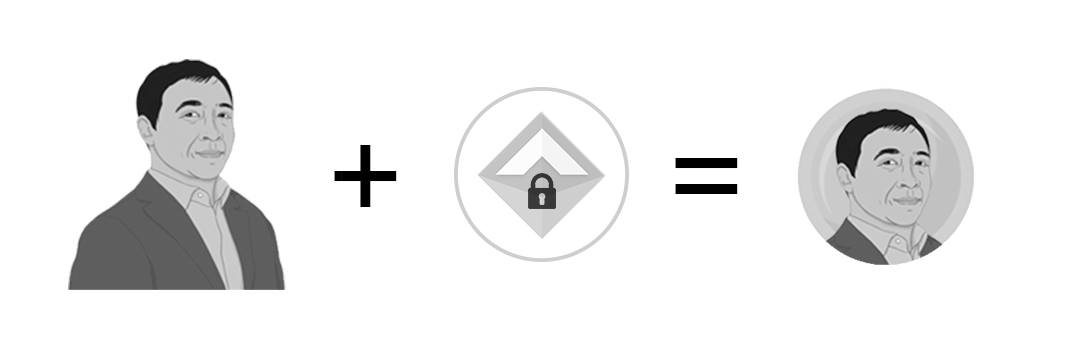
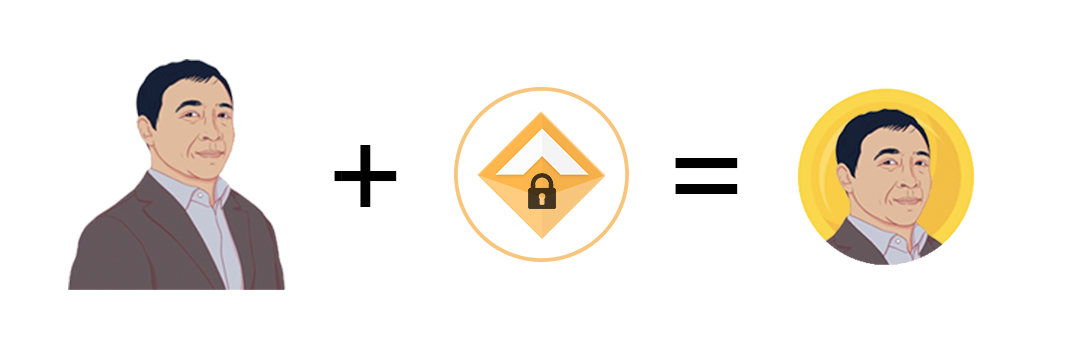
copy and design improvements

diff --git a/index.html b/index.html
@@ -55,6 +55,47 @@
 
 
 <style>
+
+  /*
+
+    eg1: #4aa6a7;
+    eg2: #5173ac;
+    eg3: #8151a9;
+
+    eg4: #b75378;
+    eg5: #ed6558;
+    eg6: #ed6558;
+
+    eg7: #bb8450
+    eg8: #9ab153;
+    eg9: #68b07c;
+
+  */
+
+  a.eg1,a:hover.eg1,a:visited.eg1{
+    color: #4aa6a7;
+  }
+
+  a.eg2,a:hover.eg2,a:visited.eg2{
+    color: #5173ac;
+  }
+
+  a.eg3,a:hover.eg3,a:visited.eg3{
+    color: #8151a9;
+  }
+
+  a.eg4,a:hover.eg4,a:visited.eg4{
+    color: #b75378;
+  }
+
+  a.eg5,a:hover.eg5,a:visited.eg5{
+    color: #ed6558;
+  }
+
+  a.eg6,a:hover.eg6,a:visited.eg6{
+    color: #ed6558;
+  }
+
   body{
     font-family: 'IBM Plex Mono', monospace;
   }
@@ -92,15 +133,12 @@
     font-weight: 500;
   }
 
-  a.red,a:visited{
-  }
-
-  a:hover{
-    text-decoration: none;
+  figure{
+    margin-bottom: 3rem;
   }
 
   .figure-caption{
-    font-size: 1.5rem;
+    font-size: 1.2rem;
   }
 </style>
 </head>
@@ -113,23 +151,18 @@
         <h1 class="display-5" style="font-style: italic">21OO</h1>
         <div style="text-align: right;"
         >
-        <h5
-        data-aos="fade-in"
-        data-aos-offset="100"
-        data-aos-duration="1000"
-        data-aos-easing="ease-in-out"
-        data-aos-anchor-placement="top-center"
-        >a primer:</h5>
         <a 
-        href="#mechanics"
+        href="#overview"
+        class="eg1"
         data-aos="fade-in"
         data-aos-offset="100"
         data-aos-duration="1000"
         data-aos-easing="ease-in-out"
         data-aos-anchor-placement="top-center"
-        >Mechanics</a><br/>
+        >Overview</a><br/>
         <a 
         href=""
+        class="eg2"
         data-aos="fade-in"
         data-aos-delay="75"
         data-aos-offset="100"
@@ -139,28 +172,31 @@
         >Motivation</a><br/>
         <a 
         href=""
+        class="eg3"
         data-aos="fade-in"
         data-aos-offset="100"
         data-aos-duration="1000"
         data-aos-easing="ease-in-out"
         data-aos-anchor-placement="top-center"
-        >Prior art</a><br/>
+        >Context</a><br/>
         <a 
         href=""
+        class="eg4"
         data-aos="fade-in"
         data-aos-offset="100"
         data-aos-duration="1000"
         data-aos-easing="ease-in-out"
         data-aos-anchor-placement="top-center"
-        >Centralization</a><br/>
+        >Philosophy</a><br/>
         <a 
         href=""
+        class="eg5"
         data-aos="fade-in"
         data-aos-offset="100"
         data-aos-duration="1000"
         data-aos-easing="ease-in-out"
         data-aos-anchor-placement="top-center"
-        >Creating</a>
+        >Creating Tokens</a>
       </div>
 
     </div>
@@ -182,11 +218,11 @@
   </div>
   <div class="col-md-7 overflow-hidden">
     <div class="">
-      <h3 id="mechanics">Mechanics</h3>
+      <h3 id="overview">Overview</h3>
       <p>Each account is represented as an ERC-20 token and has a fixed supply of 2,100.  Collectively, the top 10,000 Twitter accounts create a supply of 21 million tokens: 10,000 non-fungible groups of 2100.</p>
         <figure class="figure">
           <img src="img/figure1.png" class="figure-img img-fluid rounded" alt="A generic square placeholder image with rounded corners in a figure.">
-          <figcaption class="figure-caption">@andrewyang is automatically entitled to 100 $andrewyang, this is known as an 'owners reward'</figcaption>
+          <figcaption class="figure-caption">@andrewyang + DAI lockdrop = $andrewyang</figcaption>
         </figure>
       <p>The owner of a username on Twitter is entitled to ~5% of their token's supply (100 tokens). A public marketplace of 'minters' compete to mint and own the remaining 2000 tokens.</p>
       <p>To mint 2100 tokens, participants 'stake' the DAI stablecoin on the Twitter username of their choice.  Forgoing interest on their staked DAI entitles them to a proportional amount of the username tokens as they are minted.</p>
@@ -201,7 +237,15 @@
     <div class="col-md-7 overflow-hidden">
       <div class=" ">
         <h3>Motivation</h3>
-        <p>We speculate that 2100 tokens have multiple use-cases and create natural incentives for account owners to create utility for their token.</p>
+        <p>We believe that 2100 tokens have multiple forms of utility and create natural incentives for both minters and account owners.  For example, 2100 tokens can facilitate a weighted (and sybil resistant) social graph.</p>
+
+        <p>When there is no cost associated with subscribing to a feed on public networks like Twitter, users can subscribe to an arbitrarily large number of accounts.  This creates a problem for influencers and popular accounts because they can’t prioritize or distinguish die-hard fans from casual fans or bots.</p>
+
+        <p>With sybil resistant subscriptions, influencers can do a lot more for their followers:</p>
+
+        <blockquote>‘Hodl at least 1 $dollarshaveclub and get a free razor every month!’</blockquote>
+        <blockquote>'Get a backstage pass with 10 $snoopdog'</blockquote>
+        <blockquote>‘Burn 1 $kdtrey5 to mint a Kevin Durant NFT’</blockquote>
       </div>
     </div>
   </div>
@@ -211,7 +255,7 @@
     <div class="col-md-4 d-flex align-items-center justify-content-center"><h1 style="color: ghostwhite"></h1></div>
     <div class="col-md-7 overflow-hidden">
       <div class="">
-        <h3>Prior Art</h3>
+        <h3>Context</h3>
         <p>In a <a href="https://youtu.be/_mP9OmOFxc4">May 2019 interview</a> with <a href="https://twitter.com/joerogan">@joerogan</a>, <a href="https://twitter.com/jack">@jack</a> recounted that Twitter was not invented but ‘discovered’.  With this statement, he was referring to the post-internet inevitability of a Twitter-like protocol.</p>
         <p>We theorize that socially-linked commodities are (yet another) natural outcome of the democratization of financial engineering, and that 2100 or a similar protocol is also awaiting 'discovery'.</p>
         <p>As evidence of this, we cite three previous (though incomplete) implementations of this idea:</p>
@@ -219,15 +263,19 @@
         <p>Created in 1999 by <a href="https://twitter.com/maxkeiser">@maxkeiser</a> and Michael R. Burns, the Hollywood Stock Exchange, or HSX, is a web-based, multiplayer game in which players use simulated money to buy and sell simulated shares of actors, directors, upcoming films, and film-related options.</p>
         <a href="">https://en.wikipedia.org/wiki/Hollywood_Stock_Exchange</a>
         <h4>Stolen!</h4>
-        <p>Created in November 2015 by @blader, Stolen! was a fast paced mobile game that quickly gained popularity. The goal of the game was to steal Twitter accounts from other users using in-game currency S-bucks which was earned by holding popular accounts.</p>
+        <p>Created in November 2015 by @blader, Stolen! was a fast paced mobile game that quickly gained popularity. The goal of the game was to steal Twitter accounts from other users using in-game currency S-bucks which were earned by holding popular accounts.</p>
         <a href="">https://en.wikipedia.org/wiki/Stolen!</a>
         <h4>Augur Twitter Markets</h4>
         <p><a href="https://twitter.com/AugurProject">@AugurProject</a> is a decentralized prediction market platform built on the Ethereum blockchain that was founded in 2014. In 2019, prediction markets betting on the follower count of Twitter celebrities become popular trading venues.</p>
+        <figure class="figure">
+          <img src="img/figure3.png" class="figure-img img-fluid rounded" alt="A generic square placeholder image with rounded corners in a figure.">
+          <figcaption class="figure-caption">A @veil market for betting on Andrew Yang's Twitter followers</figcaption>
+        </figure>
         <a href="">https://en.wikipedia.org/wiki/Augur_(software)</a>
-        <h3>Towards long-lived, platform independent commodities</h3>
+        <h3>Platform independence</h3>
         <p>Both Stolen and HSX achieved finite success, but suffered from the problem that their commodity had no utility outside of a single app.</p>
         <p><a href="https://twitter.com/AugurProject">@AugurProject</a> Twitter markets have given us the closest approximation of a censorship resistant, platform-independent commodity, but these markets exist only for a specific window of time and for a specific range of Twitter followers.  Further, follower count can be Sybil attacked and is not always correlated with an increase in popularity or utility.</p>
-        <p>2100 proposes a mechanism to create long-lived, censorship resistant, platform independent, identity-linked commodities. If implemented correctly, we hope that it will inspire a 'Layer 2' of utility.</p>
+        <p>2100 proposes a mechanism to create long-lived, censorship resistant, platform independent, identity-linked commodities. With the right implementation, we hope that 2100 will inspire a 'Layer 2' of utility.</p>
       </div>
     </div>
   </div>
@@ -237,10 +285,10 @@
     <div class="col-md-4 d-flex align-items-center justify-content-center"><h1 style="color: ghostwhite"></h1></div>
     <div class="col-md-7 overflow-hidden">
       <div class="">
-        <h3>On Centralization</h3>
+        <h3>Philosophy</h3>
         <p>While our long term goal is to completely decentralize the 2100 protocol, we believe that the current costs of decentralization (both in terms of 'gas' and more critically user experience) are barriers to widespread adoption. For this reason, the first version of 2100 will be a centralized application with a deep Ethereum integration.</p>
 
-        <p>Ethereum will be used for non-custodial DAI deposits and for 'settling' the Twitter-linked assets as ERC-20 tokens.  All other functionality will be transparently orchestrated off-chain by Citizen Hex Inc. (the company behind 2100, hereby referred to as <a href="https://twitter.com/2100hq">@2100hq</a>), with plans to move 'on-chain' after we demonstrate a clear use-case for 2100.</p>
+        <p>Ethereum will be used for non-custodial DAI deposits and for 'settling' the Twitter-linked assets as ERC-20 tokens.  All other functionality will be transparently orchestrated off-chain by Citizen Hex Inc. (the company behind 2100, hereby referred to as <a href="https://twitter.com/2100hq">@2100hq</a>), with plans to move 'on-chain' (Ethereum Plasma etc.) if our 'MVP' is a success.</p>
       </div>
     </div>
   </div>
@@ -250,7 +298,7 @@
     <div class="col-md-4 d-flex align-items-center justify-content-center"></div>
     <div class="col-md-7 overflow-hidden">
       <div class="">
-        <h3>Creating a Token Contract</h3>
+        <h3>Creating Tokens</h3>
         <p>2100 token contracts are created when <a href="https://twitter.com/2100hq">@2100hq</a> approves that a string of lowercase characters is an existing Twitter username.</p>
         <p>Anyone in the world can send a tweet specifying which Twitter username should be added to 2100:</p>
         <quote>"Add @SnoopDogg to #2100</quote>
@@ -394,11 +442,7 @@
 
   <script src="https://unpkg.com/aos@next/dist/aos.js"></script>
   <script>
-    AOS.init({
-  useClassNames: false, // if true, will add content of `data-aos` as classes on scroll
-
-
-});  </script>
+    AOS.init();  </script>
 
     <!-- Bootstrap core JavaScript
       ================================================== -->
